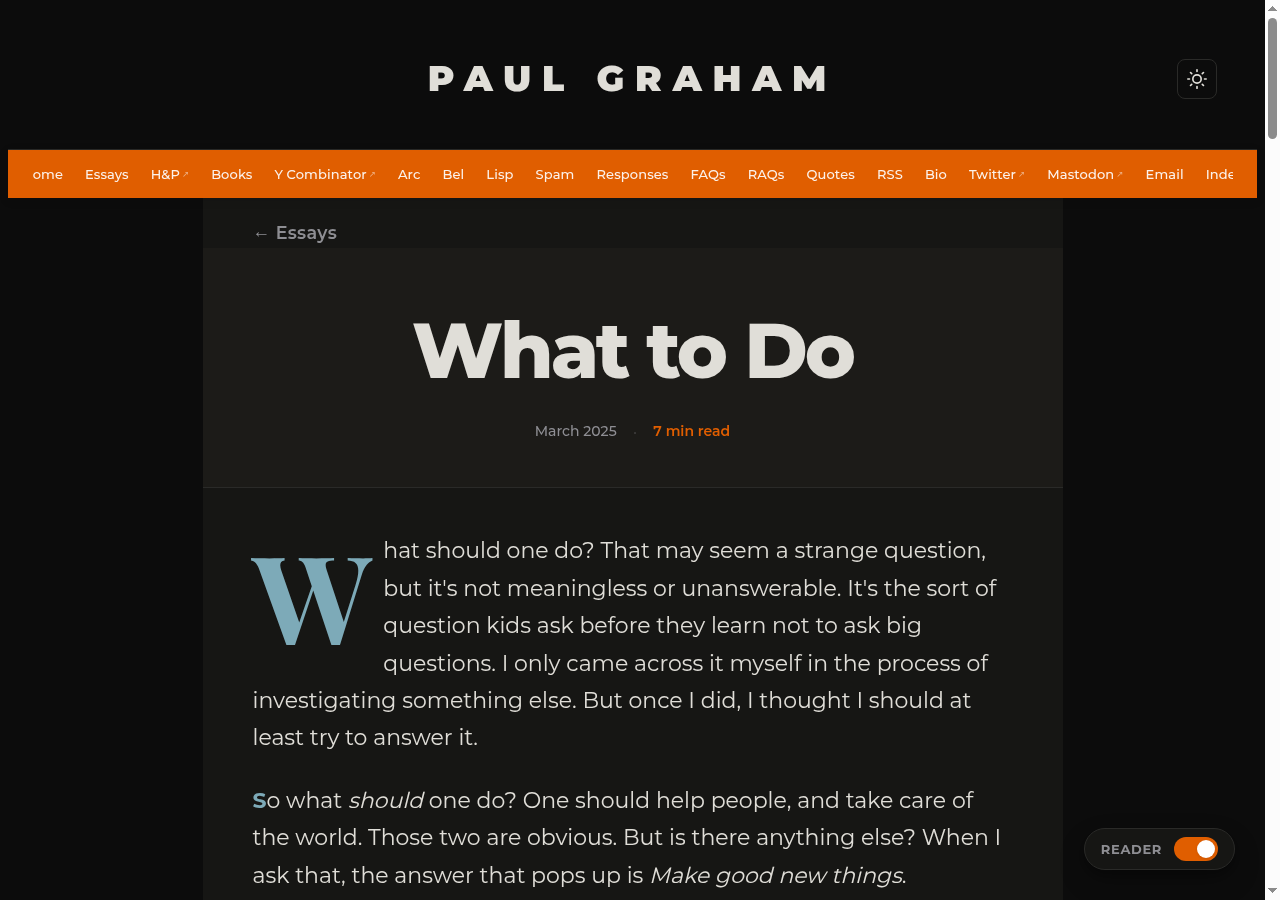
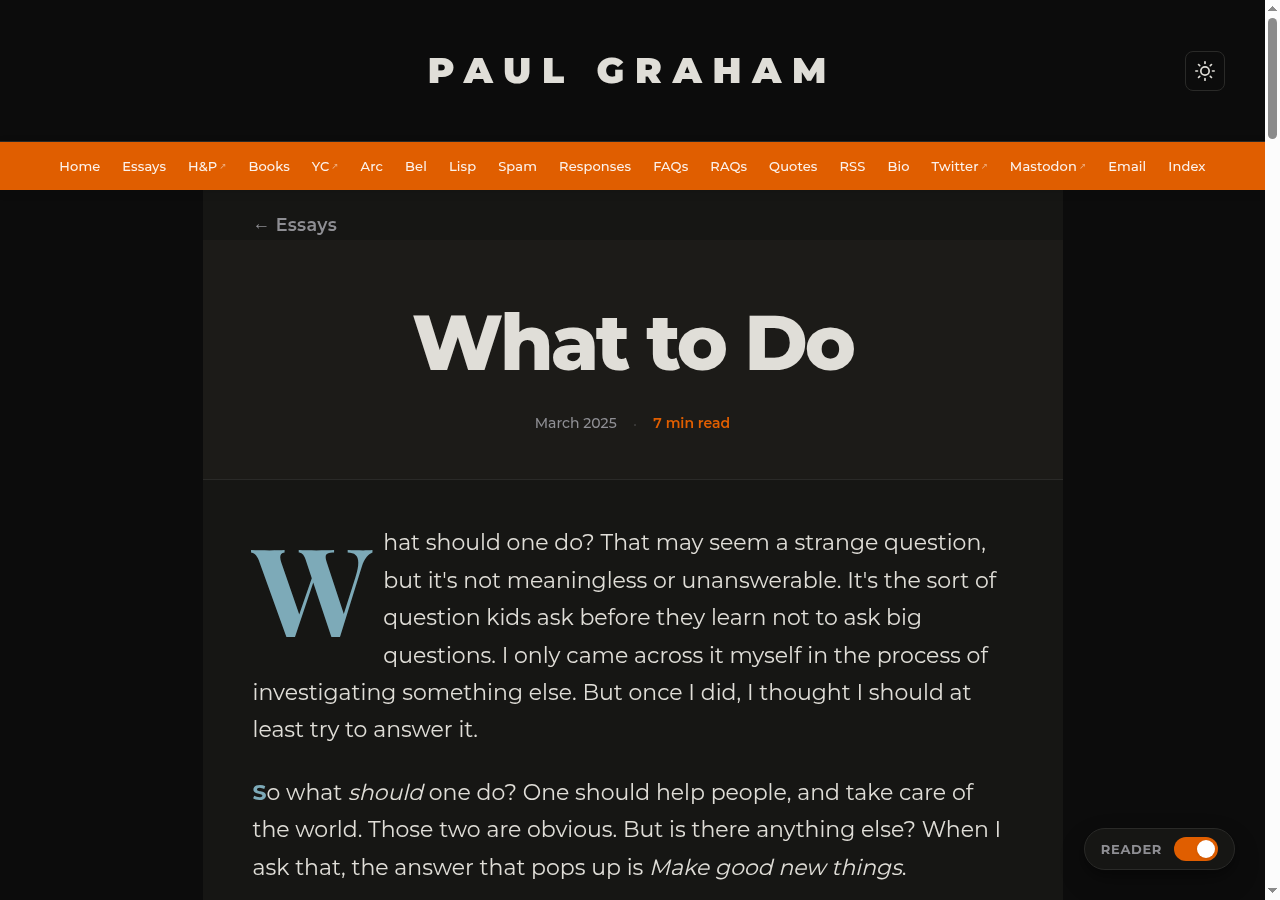
Fix navbar full-width: reset body margin/padding
PG site's default body margin pushed nav bar inward asymmetrically.
Resetting body margin to 0 under .pg-reader makes topnav span viewport edge-to-edge.

diff --git a/content.css b/content.css
@@ -110,6 +110,8 @@ html.pg-reader[data-pg-theme="light"] {
 html.pg-reader body {
   background: var(--pg-bg) !important;
   color: var(--pg-fg) !important;
+  margin: 0 !important;
+  padding: 0 !important;
 }
 
 /* ── FOUC Prevention ─────────────────────────────────────── */
